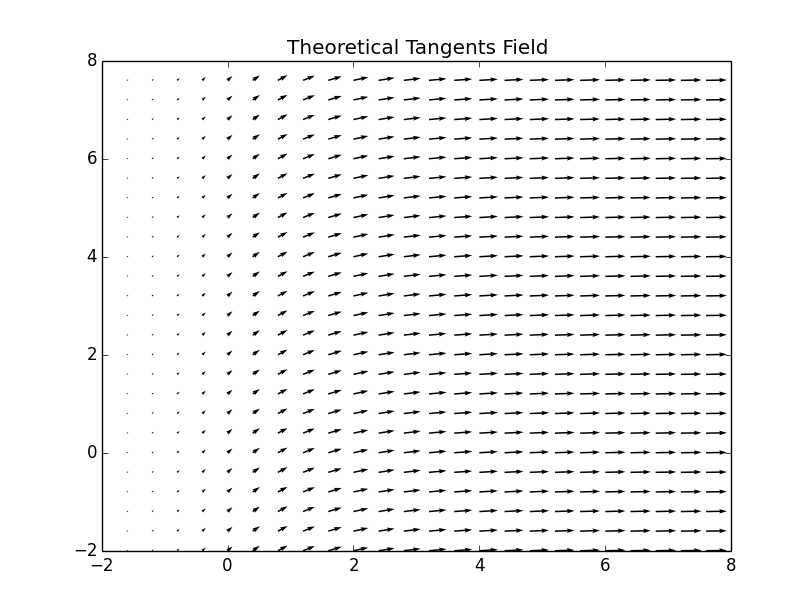
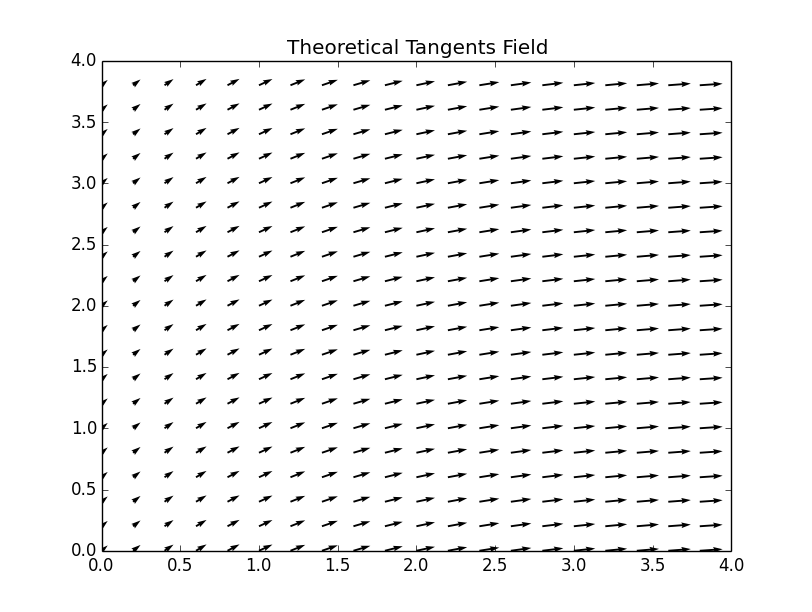
methodes pretty much finished

diff --git a/methodes.py b/methodes.py
@@ -57,11 +57,10 @@ def meth_epsilon(y0, t0, tf, eps, f, meth):
 #==============TANGENTS===============#
 
 def tangents_field(y0, t0, h, f, meth, N):
-    #tan0 = lambda x : f(y0, t0).dot((x - t0)) + y0
     t0_ = t0
-    X = [0.]*N
-    Y = [0.]*N
-    DY = [0.]*N
+    X = np.empty(N)
+    Y = np.empty(N)
+    DY = np.empty(N)
     X[0] = t0
     Y[0] = y0
     DY[0] = f(y0, t0)
@@ -71,7 +70,7 @@ def tangents_field(y0, t0, h, f, meth, N):
         X[i] = t0
         Y[i] = y0
         DY[i] = f(y0, t0)
-    return Y, DY
+    return X, Y, DY
 
 #==============TEST_ZONE==============#
 
@@ -130,9 +129,7 @@ def test_methodes():
     # Dimension 1
 
         # Theoretical
-    X = np.arange(-2.,8.,0.4)
-    N = len(X)
-
+    X = np.arange(0.,4.,0.2)
     U, V = np.meshgrid(X, X)
     dy_sol = lambda t : sm.derivative(y_sol, t)
     plt.quiver(U, V, y_sol(X), dy_sol(X))
@@ -140,7 +137,11 @@ def test_methodes():
     plt.show()
 
         # Experimental
-    Y, DY = tangents_field(y0, t0, h, f, step_euler, N)
+    N = 20
+    h = 0.2
+
+    X, Y, DY = tangents_field(y0, t0, h, f, step_euler, N)
+    U, V = np.meshgrid(X, X)
     plt.quiver(U, V, Y, DY)
     plt.title("Experimental Tangents Field")
     plt.show()
